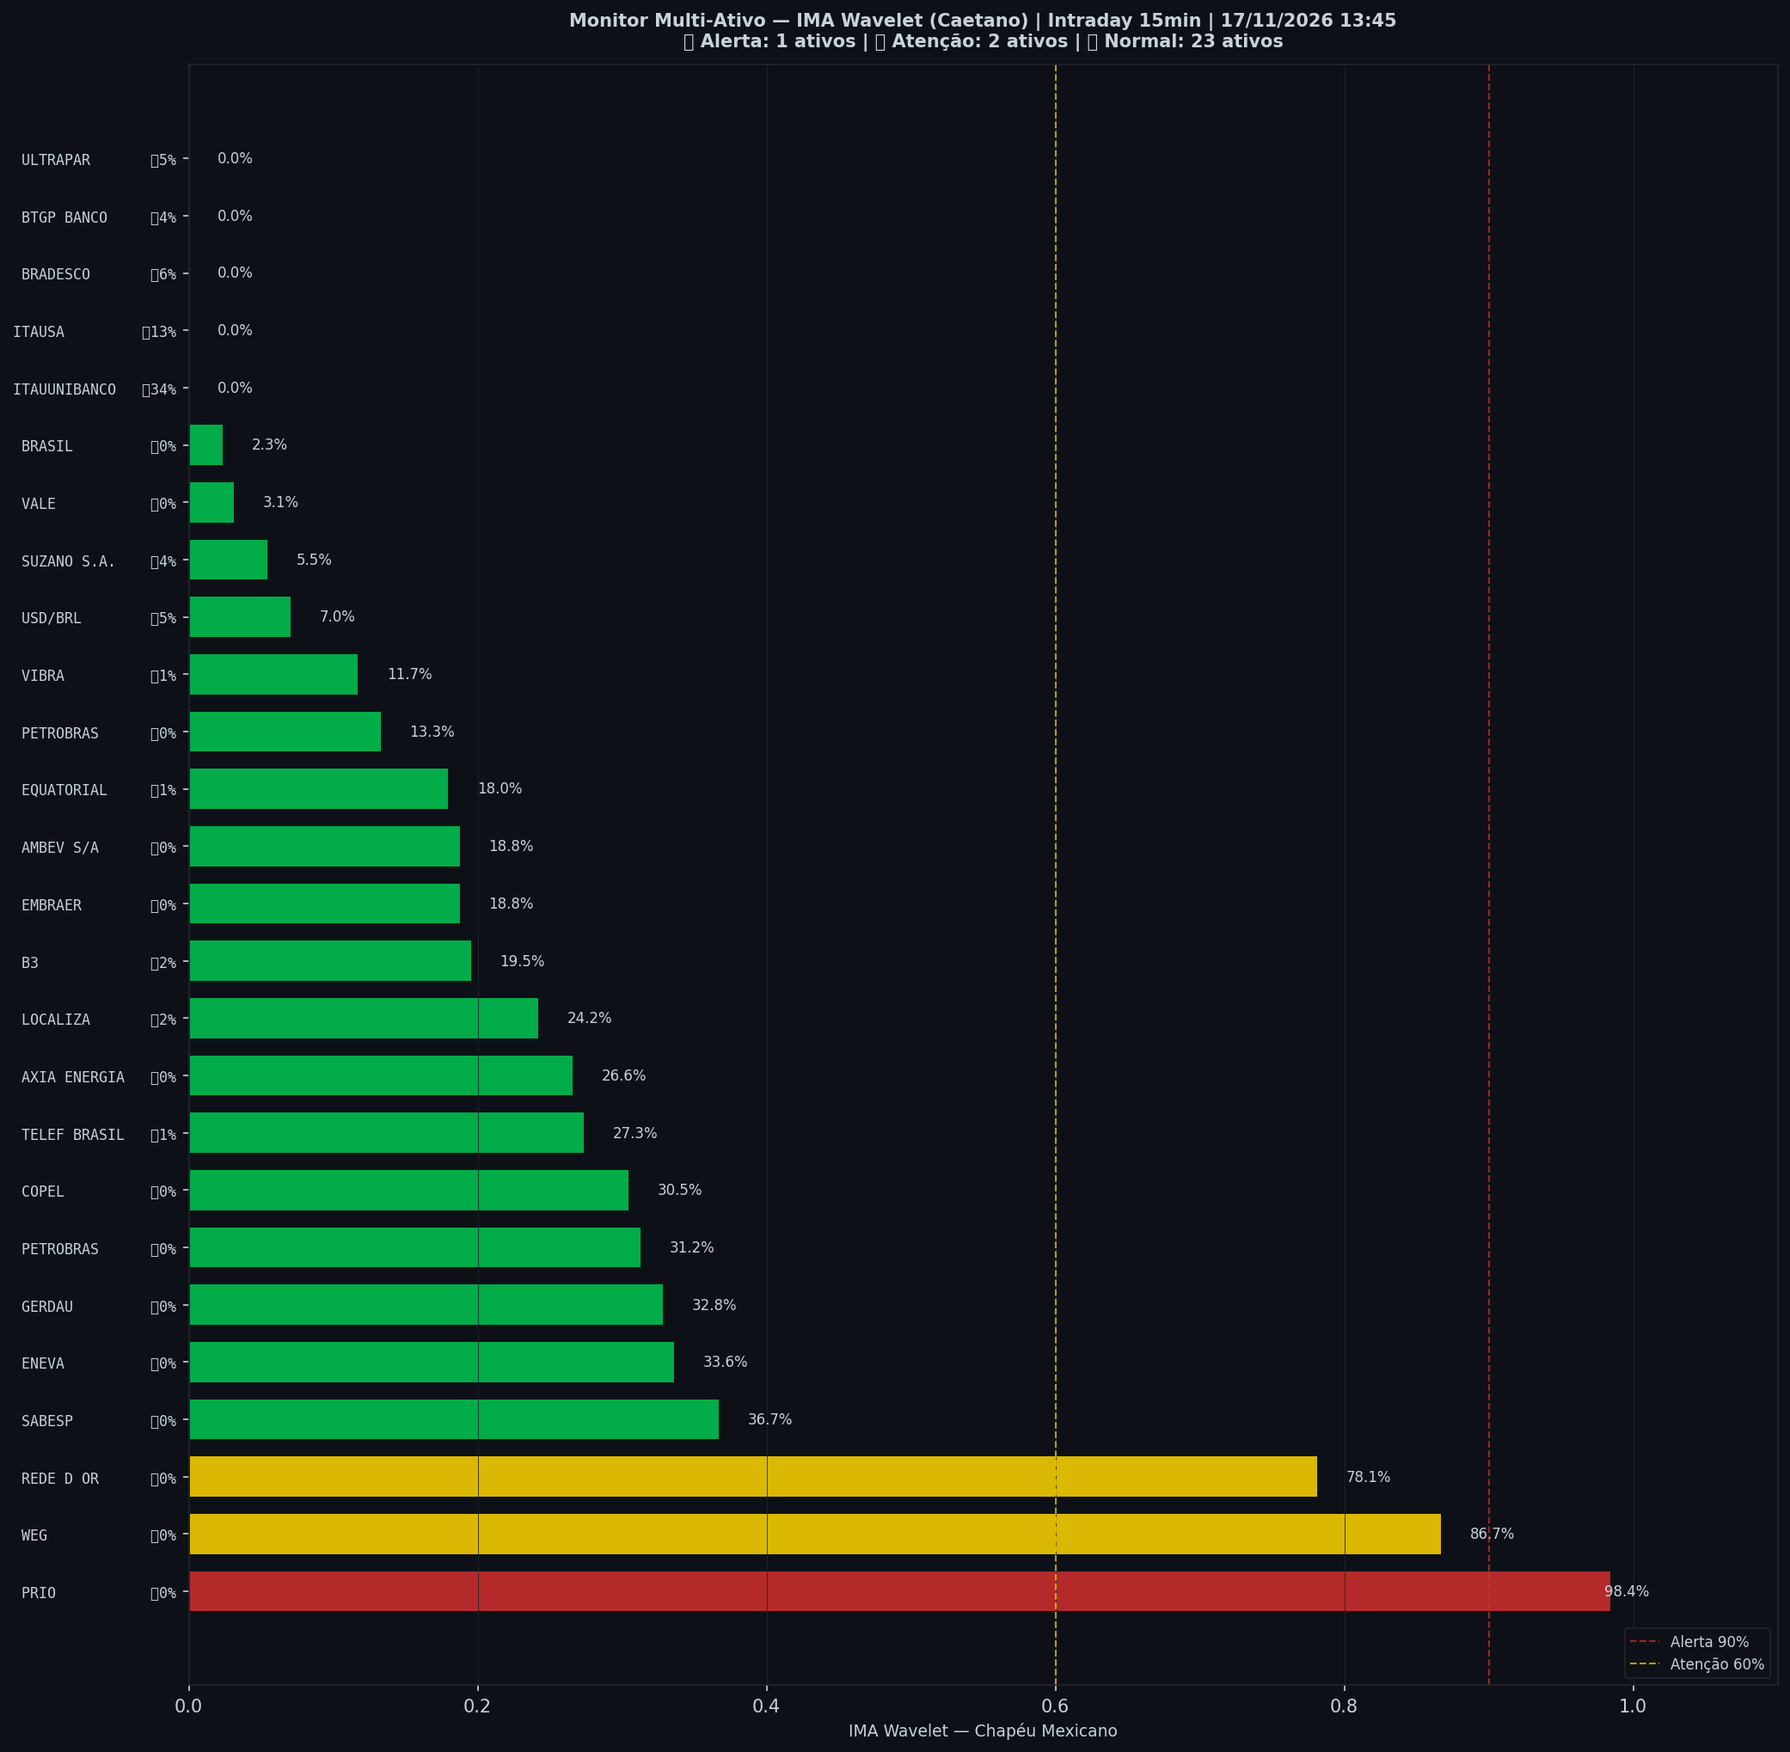
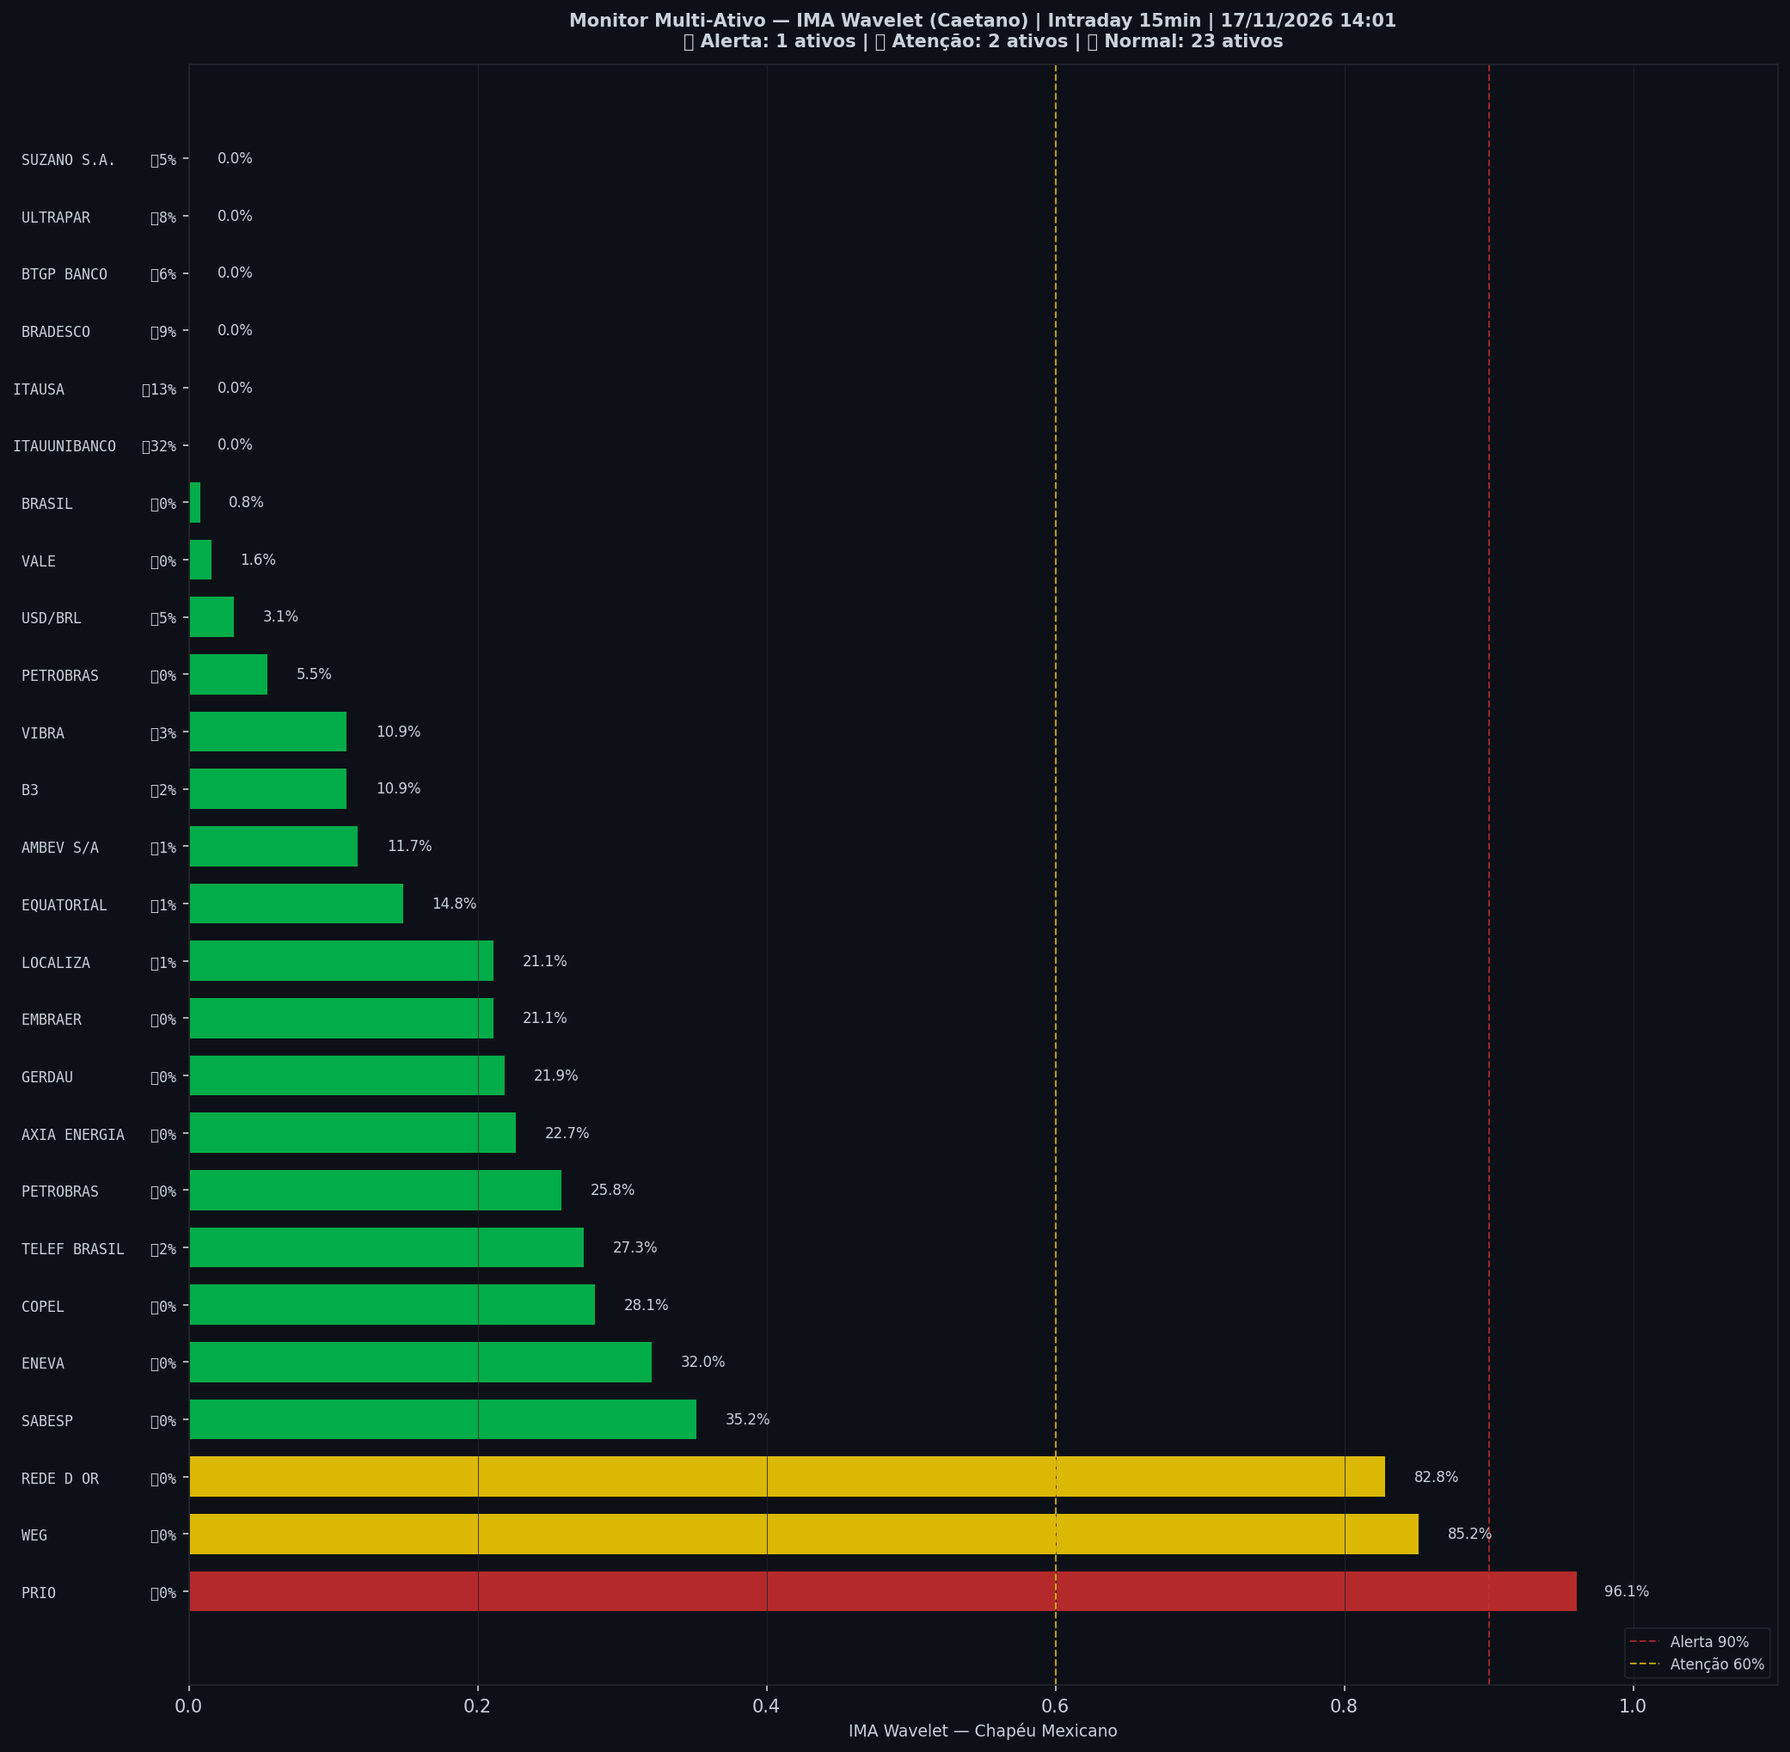
🤖 Auto: Sinal 17/11/2026 14:01

diff --git a/content/intraday/2026-11-17.md b/content/intraday/2026-11-17.md
@@ -1,11 +1,11 @@
 ---
-title: "🟢 Intraday 17/11/2026 13:30 BRT — VERDE"
+title: "🟢 Intraday 17/11/2026 13:45 BRT — VERDE"
 date: 2026-11-17
 tags: [intraday]
 ---
 
-> [!success] Onde o mercado está agora (17/11 13:30, candles de 15 min): **🟢 Calmo**
-> `Pânico ◀───────────────●─────▶ Euforia`
+> [!success] Onde o mercado está agora (17/11 13:45, candles de 15 min): **🟢 Calmo**
+> `Pânico ◀──────────────●──────▶ Euforia`
 >
 > O Ibovespa está dentro da sua faixa normal, sem excesso para cima nem para baixo.
 > No gráfico diário: 🌱 Fundo se desfazendo.
@@ -20,7 +20,7 @@ tags: [intraday]
 > | 📍 **Sinais** | hoje: nenhum sinal | [abrir](sinais-topo-fundo/) |
 > | 🧪 **Placar ao vivo** | 1 operação(ões), 0 com lucro, soma -0,8% | [abrir](operacoes/) |
 
-> [!success] IMA Intraday · 15 min (17/11 13:30): 🟢 **VERDE** — Risco 46% · ▲ +1 p.p. vs leitura anterior
+> [!success] IMA Intraday · 15 min (17/11 13:45): 🟢 **VERDE** — Risco 45% · ▼ -2 p.p. vs leitura anterior
 > `█████████░░░░░░░░░░░`
 > Preço na faixa normal em torno da tendência.
 
@@ -32,13 +32,13 @@ tags: [intraday]
 >
 > *Leitura educacional baseada em 26 anos de dados, não recomendação. [Como usar](../metodologia/crise#3-como-usar-na-prática).*
 
-| Indicador — IMA Intraday · 15 min (17/11 13:30) | Valor |
+| Indicador — IMA Intraday · 15 min (17/11 13:45) | Valor |
 |---|---|
-| 🔴 ζ Topo — preço esticado acima da tendência | **46%** |
+| 🔴 ζ Topo — preço esticado acima da tendência | **45%** |
 | 🔵 ζ Fundo — preço esticado abaixo da tendência | 0% |
 | 🫧 LPPL bolha — alta super-exponencial (risco de crash) | 0% |
 | 🫧 LPPL antibolha — queda super-exponencial (risco de repique) | 0% |
-| 📊 Ibovespa | 171.078 pts |
+| 📊 Ibovespa | 170.845 pts |
 
 ![Gráfico do sinal](../graficos/sinal_intraday.png)
 
@@ -46,6 +46,7 @@ tags: [intraday]
 
 | Data | Zona | Evento | Risco | ζ Topo | ζ Fundo | LPPL |
 |---|---|---|---|---|---|---|
+| 2026-11-17 13:45 | 🟢 VERDE |  | **45%** | 45% | 0% | 0% |
 | 2026-11-17 13:30 | 🟢 VERDE |  | **46%** | 46% | 0% | 0% |
 | 2026-11-17 13:15 | 🟢 VERDE |  | **45%** | 45% | 0% | 0% |
 | 2026-11-17 13:00 | 🟢 VERDE |  | **43%** | 43% | 0% | 0% |
@@ -75,7 +76,6 @@ tags: [intraday]
 | 2026-11-16 15:15 | 🟢 VERDE |  | **0%** | 0% | 🔵 **84%** | 0% |
 | 2026-11-16 15:00 | 🟢 VERDE |  | **0%** | 0% | 🔵 **81%** | 0% |
 | 2026-11-16 14:45 | 🟢 VERDE |  | **0%** | 0% | 🔵 **79%** | 0% |
-| 2026-11-16 14:30 | 🟢 VERDE |  | **0%** | 0% | 🔵 **77%** | 0% |
 
 <small>Destaques: 🟡 ≥ 60% · 🔴 ≥ 90% (Risco e ζ Topo) · 🔵 ≥ 60% · 🔪 ≥ 90% (ζ Fundo) · 🫧 ≥ 30% · 🫧🔴 ≥ 50% (LPPL)</small>
 
@@ -84,42 +84,42 @@ tags: [intraday]
 **12% dos ativos em tensão** (1🔴 2🟡) · **0 com ζ Fundo alto** — quanto mais ativos disparam juntos, mais confiável o sinal.
 
 > [!danger] Em destaque no multi-ativo
-> 🔴 **PRIO** ζ Topo 98% · 🟡 **WEG** ζ Topo 87% · 🟡 **REDE D OR** ζ Topo 78%
+> 🔴 **PRIO** ζ Topo 96% · 🟡 **WEG** ζ Topo 85% · 🟡 **REDE D OR** ζ Topo 83%
 
 | Zona | Ativo | Setor | ζ Topo | ζ Fundo |
 |---|---|---|---|---|
-| 🔴 | **PRIO** | Petróleo | 🔴 **98.4%** | 0.0% |
-| 🟡 | **WEG** | Industrial | 🟡 **86.7%** | 0.0% |
-| 🟡 | **REDE D OR** | Saúde | 🟡 **78.1%** | 0.0% |
-| 🟢 | **SABESP** | Saneamento | 36.7% | 0.0% |
-| 🟢 | **ITAUUNIBANCO** | Financeiro | 0.0% | 34.4% |
-| 🟢 | **ENEVA** | Energia | 33.6% | 0.0% |
-| 🟢 | **GERDAU** | Siderurgia | 32.8% | 0.0% |
-| 🟢 | **PETROBRAS** | Petróleo | 31.2% | 0.0% |
-| 🟢 | **COPEL** | Energia | 30.5% | 0.0% |
-| 🟢 | **TELEF BRASIL** | Outros | 27.3% | 0.8% |
-| 🟢 | **AXIA ENERGIA** | Energia | 26.6% | 0.0% |
-| 🟢 | **LOCALIZA** | Aluguel | 24.2% | 1.6% |
-| 🟢 | **B3** | Financeiro | 19.5% | 1.6% |
-| 🟢 | **EMBRAER** | Outros | 18.8% | 0.0% |
-| 🟢 | **AMBEV S/A** | Consumo | 18.8% | 0.0% |
-| 🟢 | **EQUATORIAL** | Energia | 18.0% | 0.8% |
-| 🟢 | **PETROBRAS** | Petróleo | 13.3% | 0.0% |
+| 🔴 | **PRIO** | Petróleo | 🔴 **96.1%** | 0.0% |
+| 🟡 | **WEG** | Industrial | 🟡 **85.2%** | 0.0% |
+| 🟡 | **REDE D OR** | Saúde | 🟡 **82.8%** | 0.0% |
+| 🟢 | **SABESP** | Saneamento | 35.2% | 0.0% |
+| 🟢 | **ITAUUNIBANCO** | Financeiro | 0.0% | 32.0% |
+| 🟢 | **ENEVA** | Energia | 32.0% | 0.0% |
+| 🟢 | **COPEL** | Energia | 28.1% | 0.0% |
+| 🟢 | **TELEF BRASIL** | Outros | 27.3% | 1.6% |
+| 🟢 | **PETROBRAS** | Petróleo | 25.8% | 0.0% |
+| 🟢 | **AXIA ENERGIA** | Energia | 22.7% | 0.0% |
+| 🟢 | **GERDAU** | Siderurgia | 21.9% | 0.0% |
+| 🟢 | **EMBRAER** | Outros | 21.1% | 0.0% |
+| 🟢 | **LOCALIZA** | Aluguel | 21.1% | 0.8% |
+| 🟢 | **EQUATORIAL** | Energia | 14.8% | 0.8% |
 | 🟢 | **ITAUSA** | Financeiro | 0.0% | 13.3% |
-| 🟢 | **VIBRA** | Energia | 11.7% | 0.8% |
-| 🟢 | **USD/BRL** | Câmbio | 7.0% | 4.7% |
-| 🟢 | **BRADESCO** | Financeiro | 0.0% | 6.2% |
-| 🟢 | **SUZANO S.A.** | Papel/Celulose | 5.5% | 3.9% |
-| 🟢 | **ULTRAPAR** | Outros | 0.0% | 4.7% |
-| 🟢 | **BTGP BANCO** | Financeiro | 0.0% | 3.9% |
-| 🟢 | **VALE** | Mineração | 3.1% | 0.0% |
-| 🟢 | **BRASIL** | Financeiro | 2.3% | 0.0% |
+| 🟢 | **AMBEV S/A** | Consumo | 11.7% | 0.8% |
+| 🟢 | **B3** | Financeiro | 10.9% | 1.6% |
+| 🟢 | **VIBRA** | Energia | 10.9% | 3.1% |
+| 🟢 | **BRADESCO** | Financeiro | 0.0% | 8.6% |
+| 🟢 | **ULTRAPAR** | Outros | 0.0% | 7.8% |
+| 🟢 | **BTGP BANCO** | Financeiro | 0.0% | 6.2% |
+| 🟢 | **PETROBRAS** | Petróleo | 5.5% | 0.0% |
+| 🟢 | **SUZANO S.A.** | Papel/Celulose | 0.0% | 5.5% |
+| 🟢 | **USD/BRL** | Câmbio | 3.1% | 5.5% |
+| 🟢 | **VALE** | Mineração | 1.6% | 0.0% |
+| 🟢 | **BRASIL** | Financeiro | 0.8% | 0.0% |
 
 <small>Destaques: 🟡 ≥ 60% · 🔴 ≥ 90% (Risco e ζ Topo) · 🔵 ≥ 60% · 🔪 ≥ 90% (ζ Fundo) · 🫧 ≥ 30% · 🫧🔴 ≥ 50% (LPPL)</small>
 
 ![Monitor multi-ativo](../graficos/multi_intraday.png)
 
-*Página atualizada em 17/11/2026 13:45 BRT (leitura da barra de 2026-11-17 13:30 BRT).*
+*Página atualizada em 17/11/2026 14:01 BRT (leitura da barra de 2026-11-17 13:45 BRT).*
 
 > [!warning] O que este indicador não faz
 > Medido em 5 anos de Ibovespa, o ζ **não antecipa** topos nem fundos: a capacidade de separar o que sobe do que cai ficou em 0,49–0,52, e 0,50 é moeda jogada ao ar. Ele descreve o estado de agora; não é aviso do que vem. As zonas verde/amarelo/vermelho continuam na página como descrição desse estado — **não as use como sinal de entrada ou saída**.

diff --git a/content/index.md b/content/index.md
@@ -6,10 +6,10 @@ tags: [home]
 
 **As ondas do mercado, explicadas.** Leitura do Ibovespa com estatística de 26 anos, baseada no trabalho de pesquisadores e traders reconhecidos e adaptada por Jarbas Daniel da Costa.
 
-*Última atualização: 17/11/2026 13:45 BRT · Intraday 15min*
+*Última atualização: 17/11/2026 14:01 BRT · Intraday 15min*
 
-> [!success] Onde o mercado está agora (17/11 13:30, candles de 15 min): **🟢 Calmo**
-> `Pânico ◀───────────────●─────▶ Euforia`
+> [!success] Onde o mercado está agora (17/11 13:45, candles de 15 min): **🟢 Calmo**
+> `Pânico ◀──────────────●──────▶ Euforia`
 >
 > O Ibovespa está dentro da sua faixa normal, sem excesso para cima nem para baixo.
 > No gráfico diário: 🌱 Fundo se desfazendo.
@@ -20,7 +20,7 @@ tags: [home]
 
 | Módulo | Agora | |
 |---|---|---|
-| 🌊 **Sinal IMA** | 🟢 VERDE · 🟢 calmo · ζ Topo 46% | [relatório](intraday/2026-11-17) |
+| 🌊 **Sinal IMA** | 🟢 VERDE · 🟢 calmo · ζ Topo 45% | [relatório](intraday/2026-11-17) |
 | 📈 **Tendência MME9** | Diário — fora<br>Semanal — fora | [abrir](operacoes/tendencia) |
 | 🎯 **Entradas do método** | ⏳ aguardando: Diário · Nadaraya, Diário · Semáforo N3 após ζ Fundo | [abrir](operacoes/entradas) |
 | 📍 **Sinais** | hoje: nenhum sinal | [abrir](sinais-topo-fundo/) |
@@ -44,18 +44,18 @@ tags: [home]
 > *Leitura educacional baseada em 26 anos de dados, não recomendação. [Como usar](metodologia/crise#3-como-usar-na-prática).*
 
 > [!info]- 🌊 Detalhes do Sinal IMA (indicadores e últimos 7 pregões)
-> > [!success] IMA Intraday · 15 min (17/11 13:30): 🟢 **VERDE** — Risco 46% · ▲ +1 p.p. vs leitura anterior
+> > [!success] IMA Intraday · 15 min (17/11 13:45): 🟢 **VERDE** — Risco 45% · ▼ -2 p.p. vs leitura anterior
 > > `█████████░░░░░░░░░░░`
 > > Preço na faixa normal em torno da tendência.
 >
 >
-> | Indicador — IMA Intraday · 15 min (17/11 13:30) | Valor |
+> | Indicador — IMA Intraday · 15 min (17/11 13:45) | Valor |
 > |---|---|
-> | 🔴 ζ Topo — preço esticado acima da tendência | **46%** |
+> | 🔴 ζ Topo — preço esticado acima da tendência | **45%** |
 > | 🔵 ζ Fundo — preço esticado abaixo da tendência | 0% |
 > | 🫧 LPPL bolha — alta super-exponencial (risco de crash) | 0% |
 > | 🫧 LPPL antibolha — queda super-exponencial (risco de repique) | 0% |
-> | 📊 Ibovespa | 171.078 pts |
+> | 📊 Ibovespa | 170.845 pts |
 >
 > **Multi-ativo:** 12% em tensão (1🔴 2🟡 de 26 ativos)
 >
@@ -63,7 +63,7 @@ tags: [home]
 >
 > | Data | Zona | Risco | ζ Topo | ζ Fundo | LPPL |
 > |---|---|---|---|---|---|
-> | [17/11/2026](intraday/2026-11-17) | 🟢 VERDE | **46%** | 46% | 0% | 0% |
+> | [17/11/2026](intraday/2026-11-17) | 🟢 VERDE | **45%** | 45% | 0% | 0% |
 > | [16/11/2026](intraday/2026-11-16) | 🟢 VERDE | **0%** | 0% | 🔵 **74%** | 0% |
 >
 > <small>Destaques: 🟡 ≥ 60% · 🔴 ≥ 90% (Risco e ζ Topo) · 🔵 ≥ 60% · 🔪 ≥ 90% (ζ Fundo) · 🫧 ≥ 30% · 🫧🔴 ≥ 50% (LPPL)</small>

diff --git a/content/operacoes/entradas.md b/content/operacoes/entradas.md
@@ -31,7 +31,7 @@ description: "Compra depois de um sinal de fundo: Nadaraya no diário, semáforo
 > | Diário · Semáforo N3 após ζ Fundo | 07/07/26 a 172.021 | 10/08/26 a 172.021 | **+0,0%** | stop no preço de entrada |
 > | H4 · Semáforo N2 | 12/06/26 14h a 171.134 | 15/06/26 14h a 171.134 | **+0,0%** | stop no preço de entrada |
 >
-> <small>Atualizado 16/11 19:00. Nota: ✅ passou no teste fora da amostra (walk-forward 2008–2026) · 🧪 em teste (H4, com aviso no Telegram) ou em observação (ζ, sem aviso) · 🧪 na tabela = operação do teste ao vivo.</small>
+> <small>Atualizado 16/11 19:00 · checado no pregão às 14:00. Nota: ✅ passou no teste fora da amostra (walk-forward 2008–2026) · 🧪 em teste (H4, com aviso no Telegram) ou em observação (ζ, sem aviso) · 🧪 na tabela = operação do teste ao vivo.</small>
 >
 > *Regras: depois de um sinal de fundo, o Diário entra quando o Nadaraya vira para cima; o Semanal e o H4 entram quando um fundo do semáforo fica fixo. Stop e saída de cada regra na [metodologia](metodologia/regras-de-operacao#entradas-do-método). Nenhuma regra de venda passou no teste. Os números do histórico têm viés de escolha (overfitting); o placar ao vivo é o que vale. Leitura educacional do método, não recomendação.*
 

diff --git a/content/integridade/index.md b/content/integridade/index.md
@@ -5,7 +5,7 @@ description: "O que foi conferido, contra qual fonte e quando — medido na hora
 tags: [integridade]
 ---
 
-*Pregão conferido: **16/11/2026**, com 59 tabelas no acervo · página gerada em 17/11/2026 13:45*
+*Pregão conferido: **16/11/2026**, com 59 tabelas no acervo · página gerada em 17/11/2026 14:01*
 
 O pregão conferido é o último **fechado e arquivado inteiro**, não o de hoje: enquanto o dia corre, só algumas tabelas estão gravadas, e conferir um dia pela metade produziria alarme falso.
 
@@ -19,7 +19,7 @@ Esta página não declara que o site está correto. Ela **mede** e escreve o res
 | Tabelas incompletas | **nenhuma** |
 | Tabelas sem alvo publicado pela B3 | 5 — não há como conferir |
 | Páginas publicadas | 351 |
-| Página escrita mais recentemente | 17/11 13:45 |
+| Página escrita mais recentemente | 17/11 14:01 |
 | Páginas sem data no cabeçalho | 8 — cegas para a conferência de dado |
 
 ## 1 · Acervo do boletim diário

diff --git a/content/historico.md b/content/historico.md
@@ -5,7 +5,7 @@ tags: [historico]
 
 # 📜 Histórico de leituras (v5)
 
-**2.429 leituras** desde 2026-07-03. Na página ficam os últimos 3 dias leitura por leitura e o resumo de cada dia anterior; o registro inteiro está no arquivo para baixar.
+**2.430 leituras** desde 2026-07-03. Na página ficam os últimos 3 dias leitura por leitura e o resumo de cada dia anterior; o registro inteiro está no arquivo para baixar.
 
 [**Baixar o histórico completo**](historico-completo.csv) (106 KB · abre no Excel e no LibreOffice)
 
@@ -16,6 +16,7 @@ tags: [historico]
 
 | Data | Modo | Zona | Risco | IMA | LPPL |
 |---|---|---|---|---|---|
+| 2026-11-17 13:45 | intraday | 🟢 VERDE | 45% | 45% | 0% |
 | 2026-11-17 13:30 | intraday | 🟢 VERDE | 46% | 46% | 0% |
 | 2026-11-17 13:15 | intraday | 🟢 VERDE | 45% | 45% | 0% |
 | 2026-11-17 13:00 | intraday | 🟢 VERDE | 43% | 43% | 0% |

diff --git a/content/operacoes/ranking.md b/content/operacoes/ranking.md
@@ -5,7 +5,7 @@ tags: [operacoes]
 description: "As regras de compra do site ordenadas pelo resultado, com treino, teste e placar ao vivo"
 ---
 
-*Atualizado 17/11/2026 13:45 · histórico simulado com as regras congeladas em 23/10/2026 + placar ao vivo.*
+*Atualizado 17/11/2026 14:01 · histórico simulado com as regras congeladas em 23/10/2026 + placar ao vivo.*
 
 As regras de compra do site, **da que mais rendeu para a que menos rendeu**. O resultado é por operação, no índice à vista, sem custos e sem juros compostos (a soma é só a soma das operações). **Treino** = entradas de 2001 a 2013 e **teste** = 2014 em diante: uma regra só é confiável se ganhou nos dois. O único resultado sem nenhum ajuste ao histórico é o **placar ao vivo**.
 

diff --git a/content/linha-do-tempo/index.md b/content/linha-do-tempo/index.md
@@ -5,7 +5,7 @@ description: "Todo sinal, ordem, stop e aviso do Pêndulo de Mercado, do mais re
 tags: [eventos]
 ---
 
-*Atualizada 17/11/2026 13:45 BRT · a cada 15 min no pregão e às 19h.*
+*Atualizada 17/11/2026 14:01 BRT · a cada 15 min no pregão e às 19h.*
 
 Tudo o que o sistema fez ou detectou, **do mais recente para o mais antigo**: sinais de topo e fundo, ordens de compra e de venda armadas, compras, vendas, stops, avisos de 🚨 preço perto do nível e mudanças do Sinal IMA. Os **últimos 7 dias** ficam abertos; o resto, por **ano → mês → dia**.
 

diff --git a/content/avisos/index.md b/content/avisos/index.md
@@ -2,7 +2,7 @@
 title: "⚠ Avisos: o que saber antes de usar os números"
 ---
 
-*Gerado em 17/11/2026 13:45*
+*Gerado em 17/11/2026 14:01*
 
 Este site publica muitos números, e cada um tem uma limitação que importa na hora de
 decidir. As limitações estão escritas nas próprias páginas, mas quem chega direto numa
